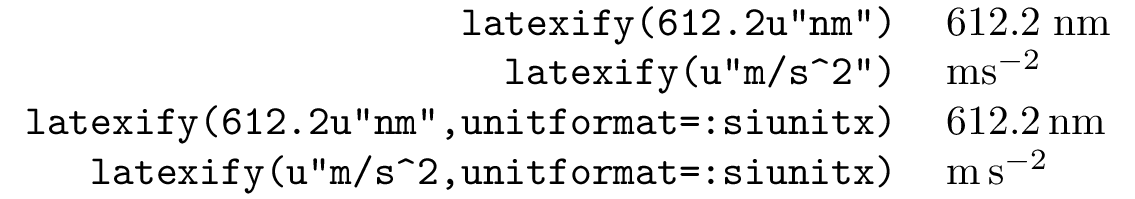
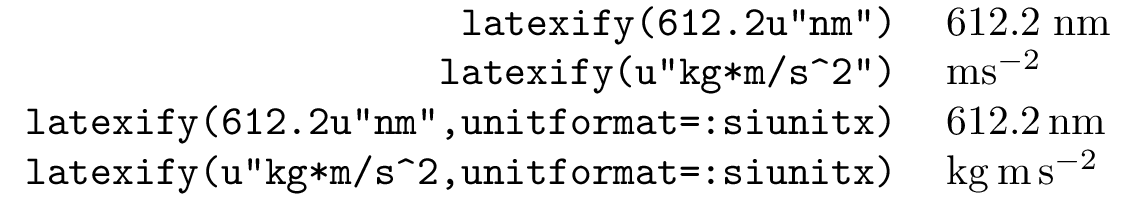
Update README

diff --git a/assets/examples.tex b/assets/examples.tex
@@ -4,9 +4,9 @@
 \begin{document}
 \begin{tabular}{rl}
         \verb+latexify(612.2u"nm")+ & $612.2\;\mathrm{nm}$\\
-        \verb+latexify(u"m/s^2")+ & $\mathrm{m}\mathrm{s}^{-2}$\\
+        \verb+latexify(u"kg*m/s^2")+ & $\mathrm{m}\mathrm{s}^{-2}$\\
         \verb+latexify(612.2u"nm",unitformat=:siunitx)+ & \SI{612.2}{\nano\meter}\\
-        \verb+latexify(u"m/s^2,unitformat=:siunitx)+ & \si{\meter\per\second\squared}\\
+        \verb+latexify(u"kg*m/s^2,unitformat=:siunitx)+ & \si{\kilo\gram\meter\per\second\tothe{2}}\\
 \end{tabular}
 
 \end{document}
